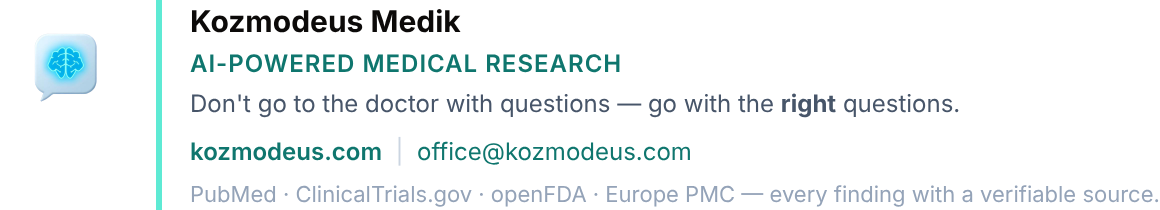
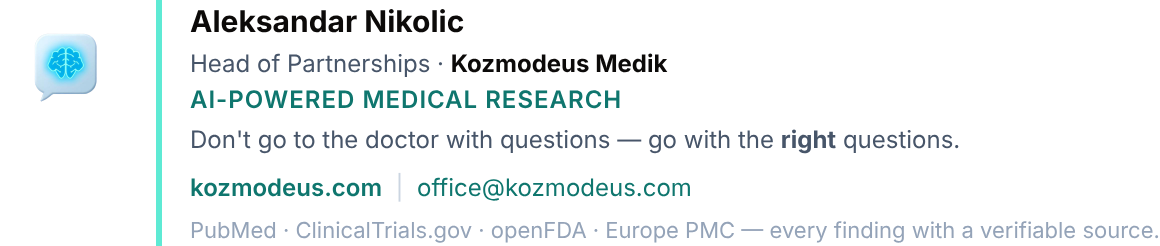
Add name and title to email signature
Claude-Session: https://claude.ai/code/session_01Y9NANXaZca8VmPGGaPst6M

diff --git a/kozmodeus-email/signature.html b/kozmodeus-email/signature.html
@@ -4,7 +4,8 @@
       <a href="https://kozmodeus.com" target="_blank"><img src="https://kozmodeus.com/pwa-icon-512.png" width="64" height="64" alt="Kozmodeus Medik" style="display:block;border:0;border-radius:12px;"></a>
     </td>
     <td style="border-left:3px solid #5EEAD4;padding-left:14px;vertical-align:top;">
-      <div style="font-size:15px;font-weight:700;color:#0c0a09;">Kozmodeus Medik</div>
+      <div style="font-size:15px;font-weight:700;color:#0c0a09;">Aleksandar Nikolic</div>
+      <div style="font-size:12px;color:#475569;">Head of Partnerships &middot; <b style="color:#0c0a09;">Kozmodeus Medik</b></div>
       <div style="font-size:12px;color:#0f766e;font-weight:600;letter-spacing:0.5px;">AI-POWERED MEDICAL RESEARCH</div>
       <div style="font-size:12px;color:#475569;padding-top:2px;">Don't go to the doctor with questions &mdash; go with the <b>right</b> questions.</div>
       <div style="padding-top:6px;font-size:12px;">
